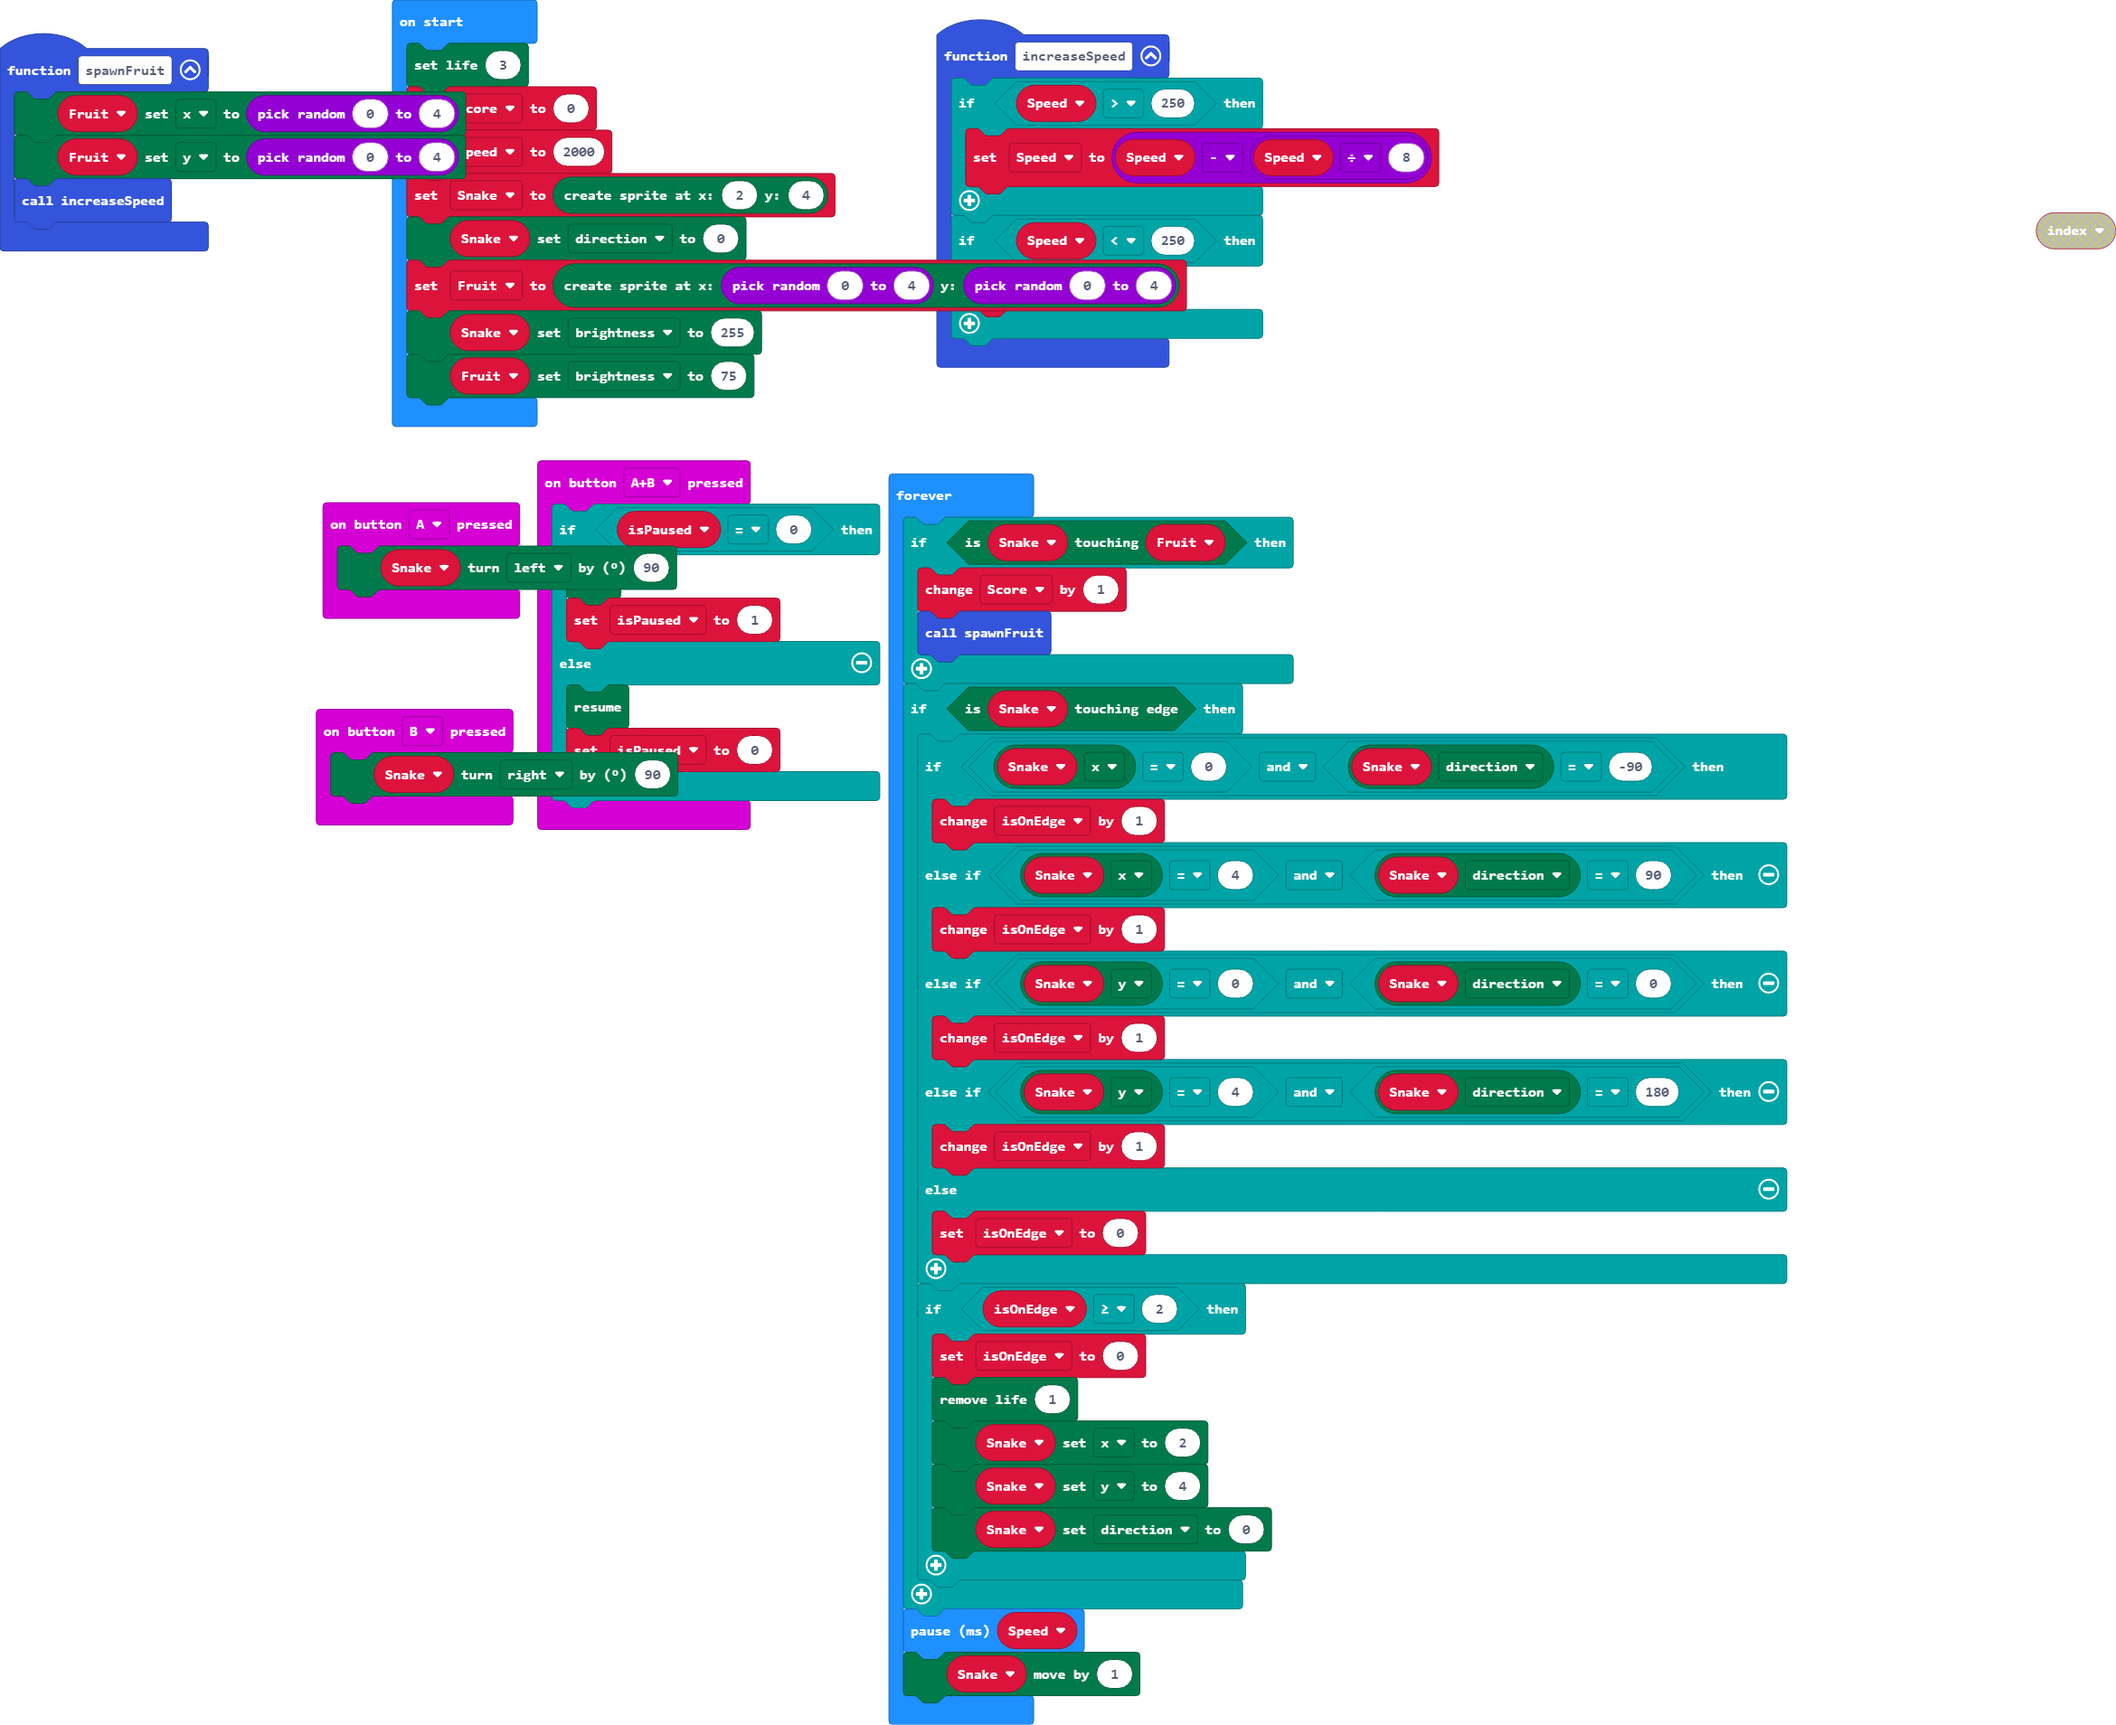
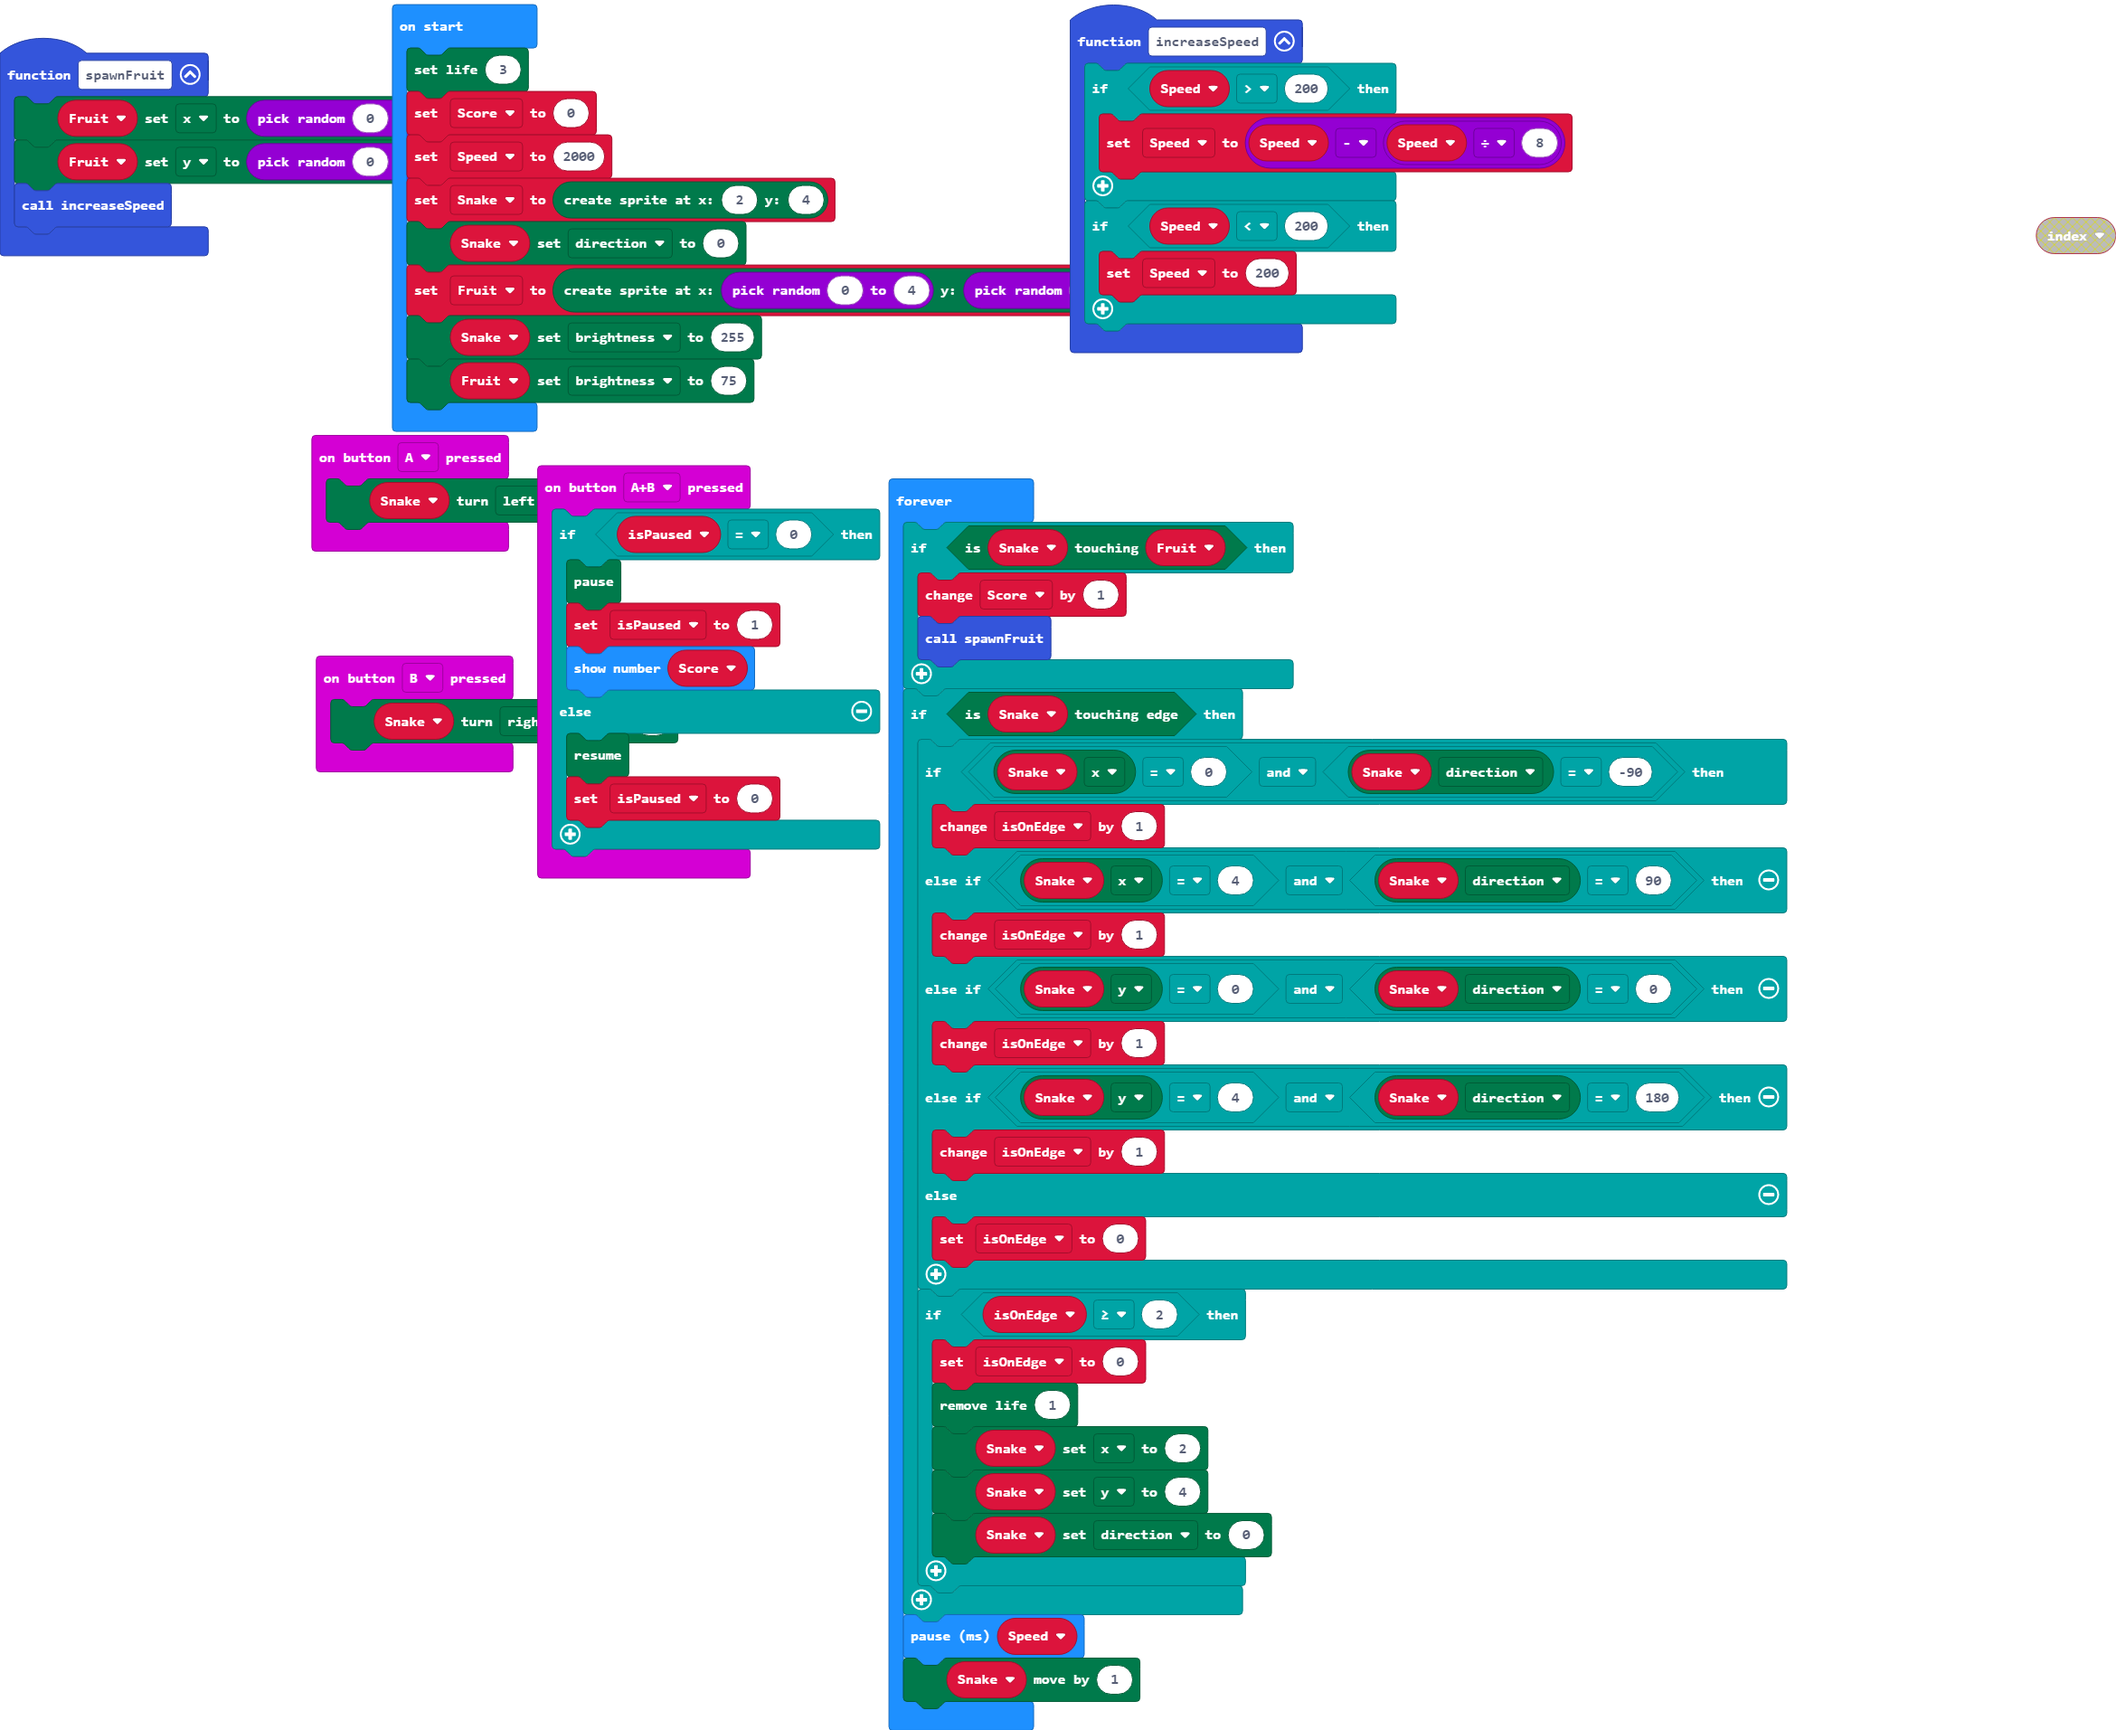
Update main.blocks, main.ts

Changed region(s): [[0.0, 0.0, 0.8423, 0.9586], [0.9671, 0.1237, 1.0, 0.1546], [0.4368, 0.9586, 0.4679, 0.9895]]

diff --git a/main.ts b/main.ts
@@ -10,6 +10,7 @@ input.onButtonPressed(Button.AB, function () {
     if (isPaused == 0) {
         game.pause()
         isPaused = 1
+        basic.showNumber(Score)
     } else {
         game.resume()
         isPaused = 0
@@ -19,11 +20,11 @@ input.onButtonPressed(Button.B, function () {
     Snake.turn(Direction.Right, 90)
 })
 function increaseSpeed () {
-    if (Speed > 250) {
+    if (Speed > 200) {
         Speed = Speed - Speed / 8
     }
-    if (Speed < 250) {
-        Speed = 250
+    if (Speed < 200) {
+        Speed = 200
     }
 }
 let isOnEdge = 0
@@ -31,8 +32,9 @@ let isPaused = 0
 let Fruit: game.LedSprite = null
 let Snake: game.LedSprite = null
 let Speed = 0
-game.setLife(3)
 let Score = 0
+game.setLife(3)
+Score = 0
 Speed = 2000
 Snake = game.createSprite(2, 4)
 Snake.set(LedSpriteProperty.Direction, 0)
